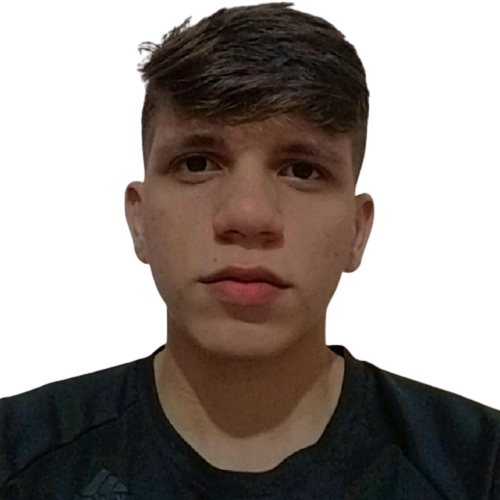
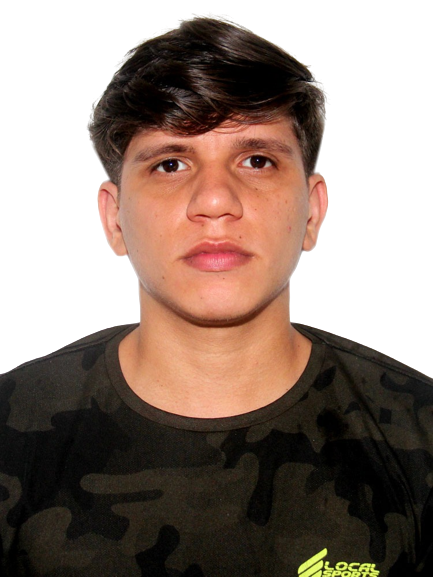
atualizacao do profile

diff --git a/src/pages/Home/styles.ts b/src/pages/Home/styles.ts
@@ -89,8 +89,7 @@ export const Image = styled.div`
     img {
         width: 200px;
         border-radius: 10px;
-        margin-bottom: -5px;
-        filter: brightness(1.6);
+        margin-bottom: -50px;
         transition: 1.5s;
     }
 `;
